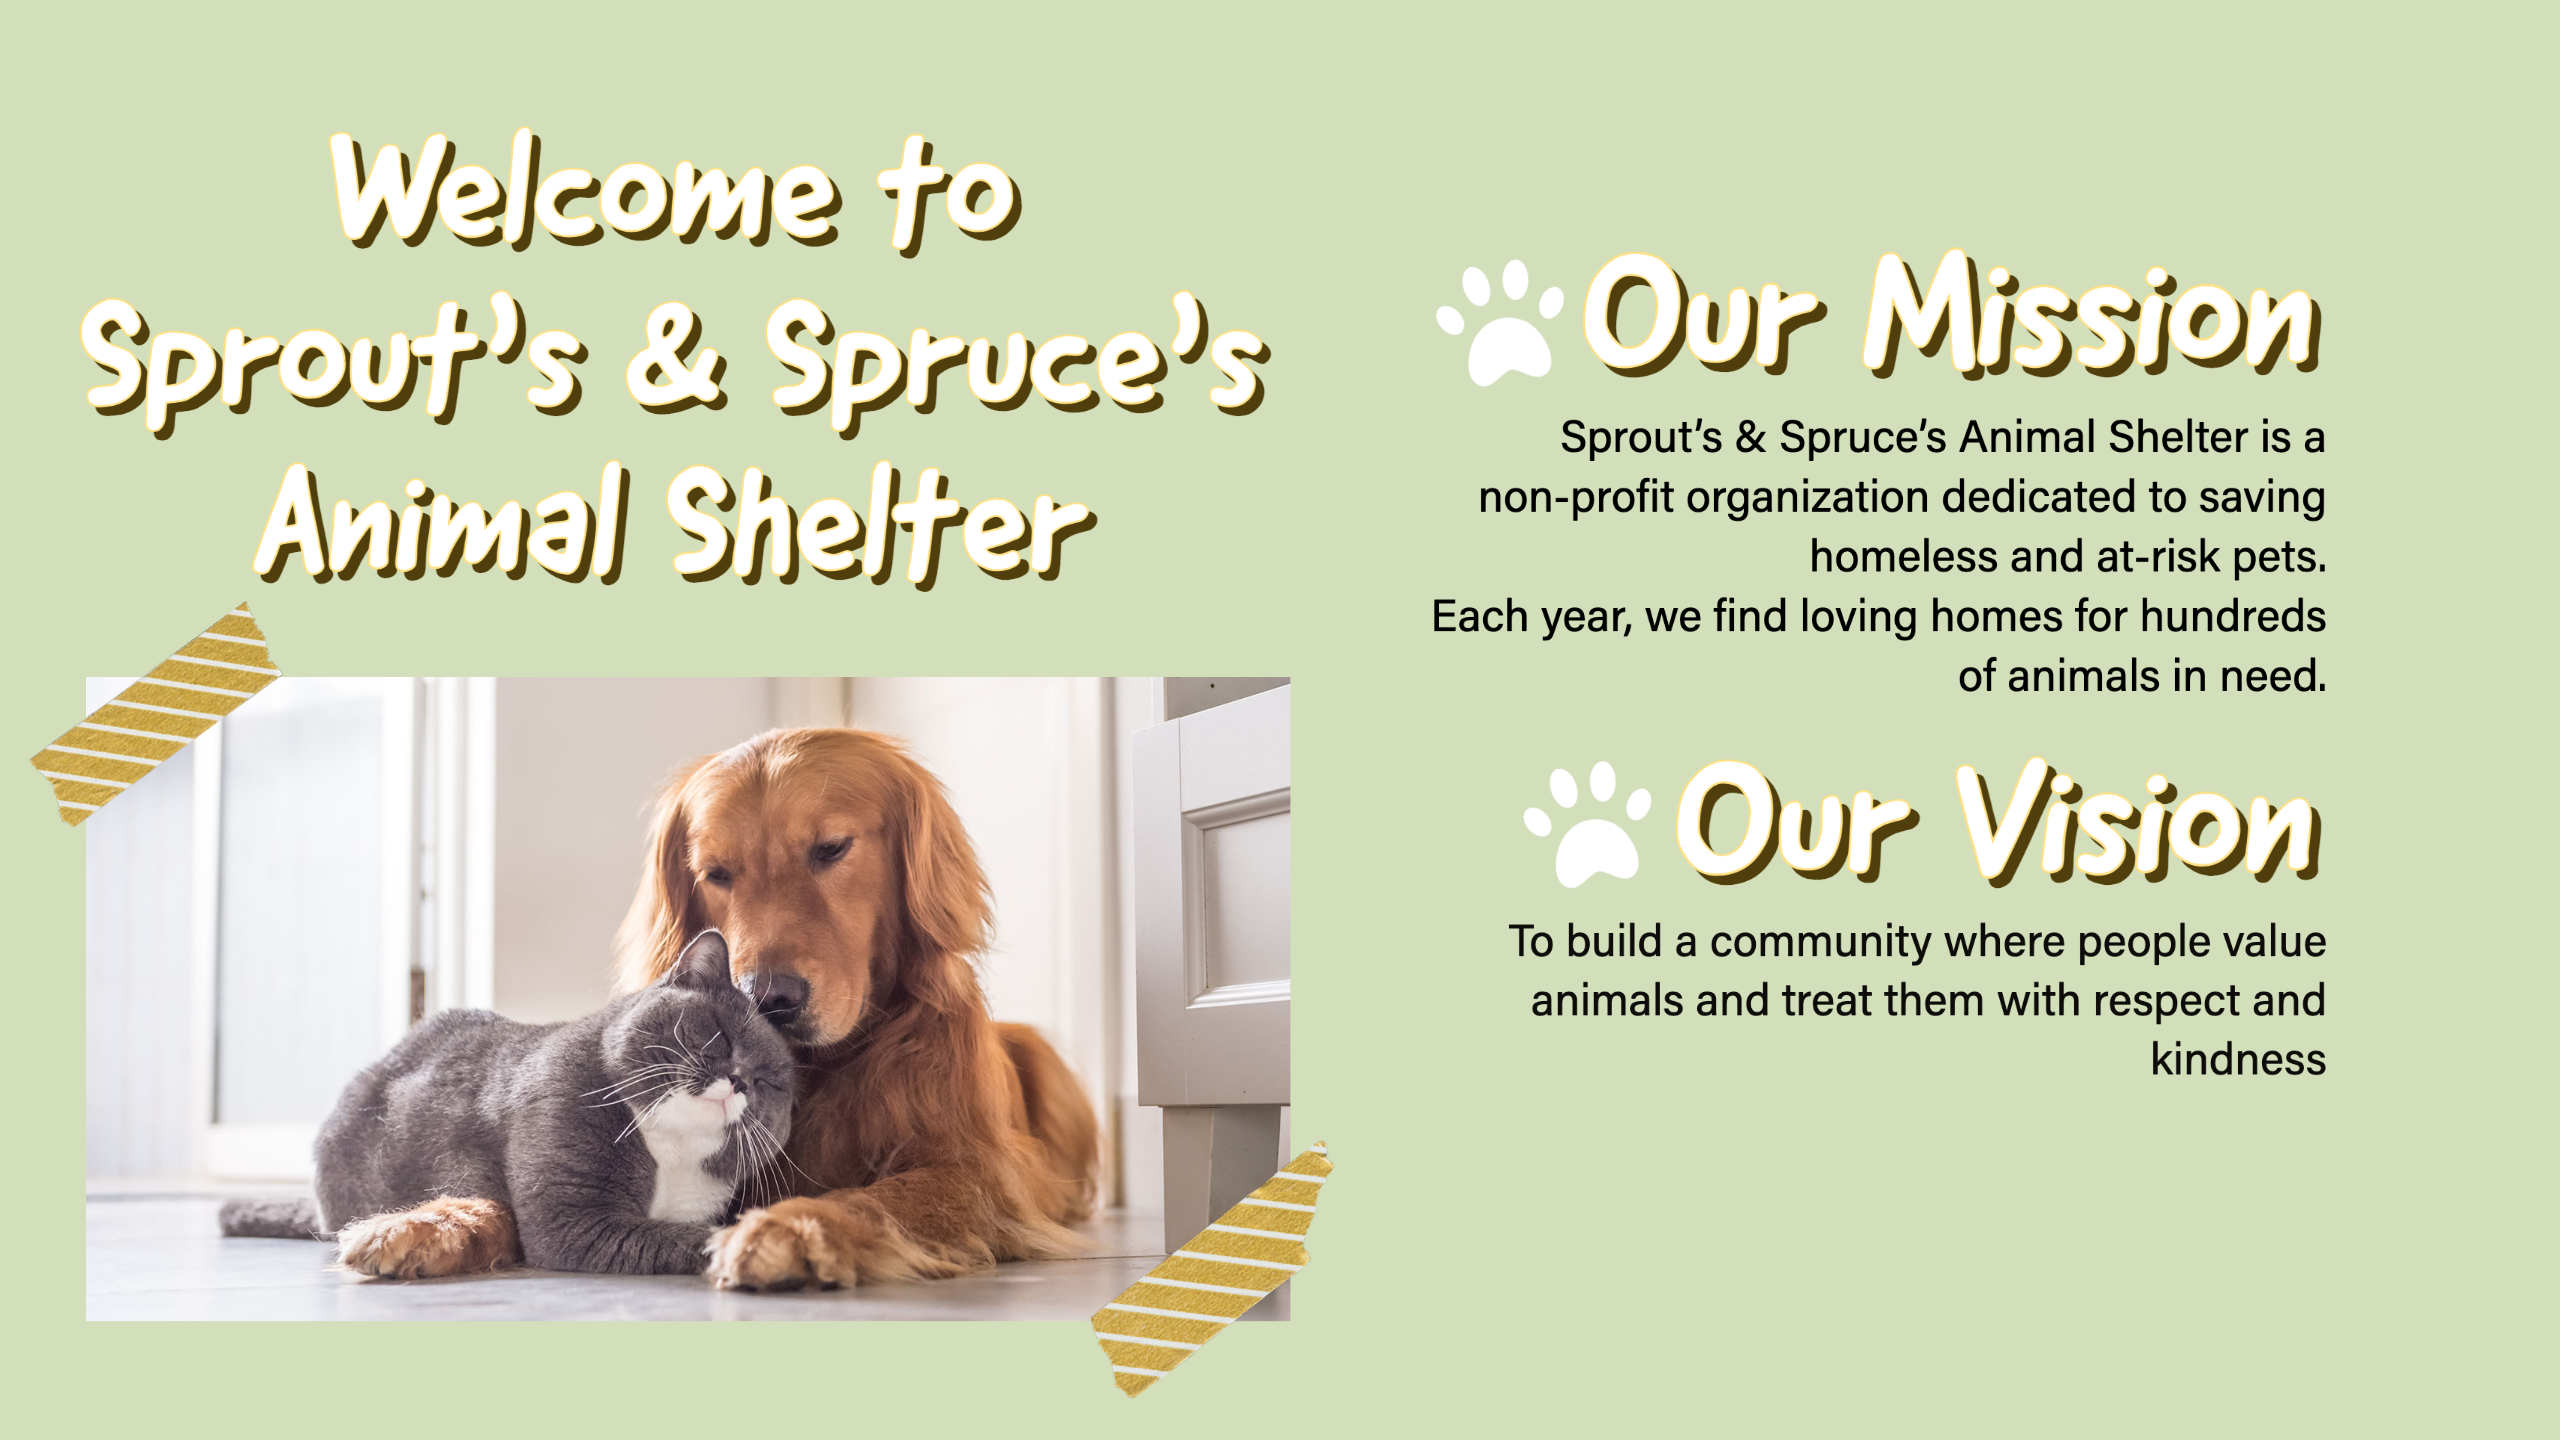
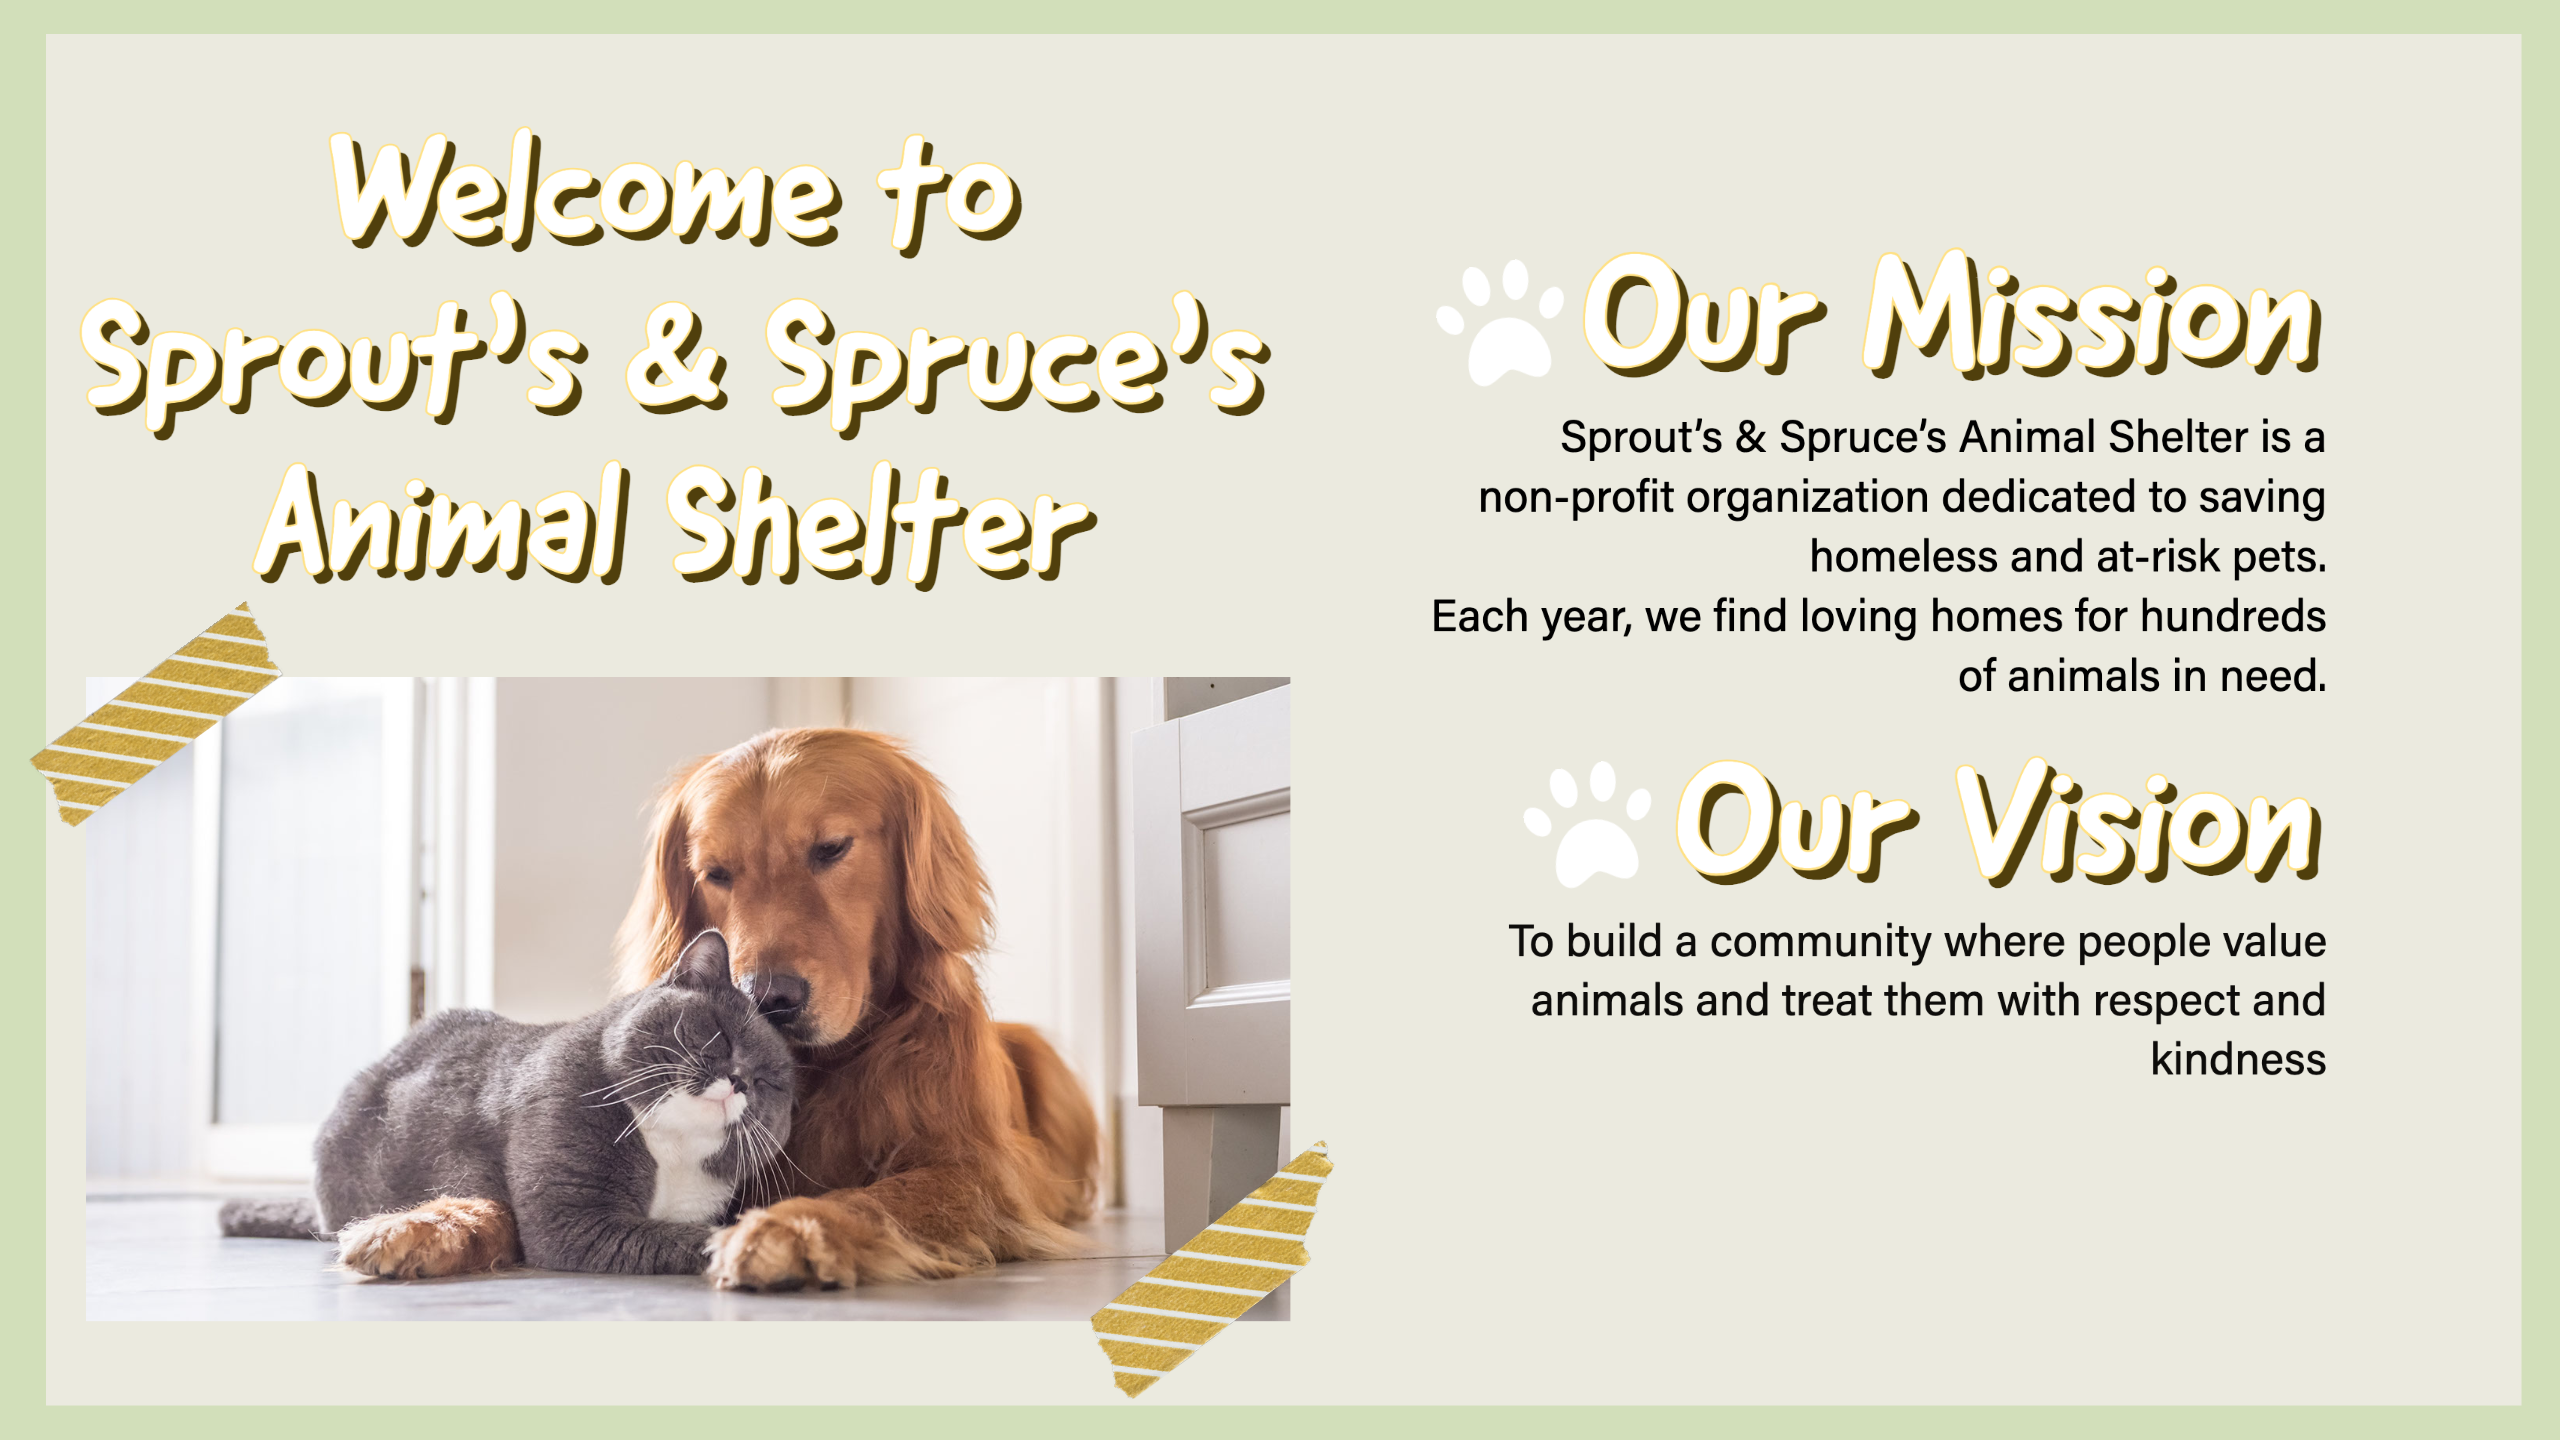
Updated Styling, added Footer

diff --git a/src/App.css b/src/App.css
@@ -22,8 +22,8 @@
   background-image: url('./Images/MissionStatement.png');
   background-size: 1300px; 
   background-repeat: no-repeat;
-  height: 1000px;
-  background-color: #D2DFBA;
+  height: 800px;
+  background-color: #ffffff;
 }
 .welcomePage {
   display: block;
@@ -35,8 +35,23 @@
   background-image: url('./Images/AboutUsBIG.png');
   background-size: 1300px; 
   background-repeat: no-repeat;
-  height: 1000px;
+  height: 800px;
   background-color: #EBE8DD;
+}
+.comments-bg {
+  background-image: url('./Images/AnimalContainerBG.png');
+  background-size: 1500px; 
+  background-repeat: no-repeat;
+  height: 800px;
+  background-color: #EBE8DD;
+
+}
+.animal-container {
+  background-image: url('./Images/AnimalContainerBG.png');
+  background-size: 1500px; 
+  background-repeat: no-repeat;
+  height: 1500px;
+  background-color: #ffffff;
 }
 .card {
   font-family: 'Livvic', sans-serif;
@@ -48,7 +63,7 @@
   background-image: url('./Images/AdoptMeBG.png');
   background-size: 415px;
   background-repeat: no-repeat;
-  background-color: #EBE8DD;
+  background-color: #ffffff;
   padding:1rem;
   width:310px;
   height:420px;
@@ -76,7 +91,7 @@
 .comments-form {
   margin-top: 20px;
   background: #EBEADF;
-  color: #8C5B3E;
+  color: #ffffff;
   width: 900px;
   margin: auto;
   position: relative;
@@ -193,7 +208,7 @@
   background-image: url('./Images/InterestedAdopt.png');
   background-size: 1300px; 
   background-repeat: no-repeat;
-  height: 1000px;
+  height: 900px;
   background-color: #EBE8DD;
   /* background-position: center;
   position: relative; */
@@ -232,14 +247,176 @@
   margin-bottom: 50px;
   padding: 15px;
   border: 2px solid;
+  text-decoration: none;
 }
-/* .footer {
+/* .footer-distributed {
   background-color: #EBE8DD;
   border-top:2px solid #757A7A;
   position: fixed;
-  height: 125px;
+  height: 500px;
   width: 100%;
   bottom: 0;
   color: white;
   font-size: 25px;
 } */
+/* ------------------------ */
+.footer-distributed{
+	background: #EBE8DD;
+	box-shadow: 0 1px 1px 0 rgba(0, 0, 0, 0.12);
+	box-sizing: border-box;
+	width: 100%;
+  height: 260px;
+	text-align: left;
+	font: bold 16px sans-serif;
+	padding: 55px 50px;
+}
+
+.footer-distributed .footer-left,
+.footer-distributed .footer-center,
+.footer-distributed .footer-right{
+	display: inline-block;
+	vertical-align: top;
+}
+
+/* Footer left */
+
+.footer-distributed .footer-left{
+	width: 40%;
+}
+
+/* The company logo */
+
+.footer-distributed h3{
+	color:  #ffffff;
+	font-family: 'Livvic', sans-serif;;
+  font-size: 36px;
+	margin: 0;
+}
+
+.footer-distributed h3 span{
+	color:  #503F0C;
+}
+
+/* Footer links */
+
+.footer-distributed .footer-links{
+	color:  #503F0C;
+	margin: 20px 0 12px;
+	padding: 0;
+}
+
+.footer-distributed .footer-links a{
+	display:inline-block;
+	line-height: 1.8;
+  font-weight:400;
+	text-decoration: none;
+	color:  inherit;
+}
+
+.footer-distributed .footer-company-name{
+	color:  #222;
+	font-size: 14px;
+	font-weight: normal;
+	margin: 0;
+}
+
+/* Footer Center */
+
+.footer-distributed .footer-center{
+	width: 35%;
+}
+
+.footer-distributed .footer-center i{
+	background-color:  #33383b;
+	color: #503F0C;
+	font-size: 25px;
+	width: 38px;
+	height: 38px;
+	border-radius: 50%;
+	text-align: center;
+	line-height: 42px;
+	margin: 10px 15px;
+	vertical-align: middle;
+}
+
+.footer-distributed .footer-center i.fa-envelope{
+	font-size: 17px;
+	line-height: 38px;
+}
+
+.footer-distributed .footer-center p{
+	display: inline-block;
+	color: #503F0C;
+  font-weight:400;
+	vertical-align: middle;
+	margin:0;
+}
+
+.footer-distributed .footer-center p span{
+	display:block;
+	font-weight: normal;
+	font-size:14px;
+	line-height:2;
+}
+
+.footer-distributed .footer-center p a{
+	color:  #503F0C;
+	text-decoration: none;;
+}
+
+.footer-distributed .footer-links a:before {
+  content: "|";
+  font-weight:300;
+  font-size: 20px;
+  left: 0;
+  color: #503F0C;
+  display: inline-block;
+  padding-right: 5px;
+}
+
+.footer-distributed .footer-links .link-1:before {
+  content: none;
+}
+
+/* Footer Right */
+
+.footer-distributed .footer-right{
+	width: 20%;
+}
+
+.footer-distributed .footer-company-about{
+	line-height: 20px;
+	color:  #503F0C;
+	font-size: 13px;
+	font-weight: normal;
+	margin: 0;
+}
+
+.footer-distributed .footer-company-about span{
+	display: block;
+	color:  #503F0C;
+	font-size: 20px;
+	font-weight: bold;
+	margin-bottom: 20px;
+}
+
+.footer-distributed .footer-icons{
+	margin-top: 25px;
+}
+
+.footer-distributed .footer-icons a{
+	display: inline-block;
+	width: 35px;
+	height: 35px;
+	cursor: pointer;
+	background-color:  #33383b;
+	border-radius: 2px;
+
+	font-size: 20px;
+	color: #ffffff;
+	text-align: center;
+	line-height: 35px;
+
+	margin-right: 3px;
+	margin-bottom: 5px;
+}

diff --git a/src/Components/Footer.js b/src/Components/Footer.js
@@ -2,23 +2,48 @@ import React from 'react'
 
 function Footer() {
     return (
-        <footer className='footer'> 
-            {/* <p>Sticky Footer Test</p> */}
-            {/* <div id='social'>
+        <footer className='footer-distributed'> 
+            <div class="footer-left">
 
-                <a className='fa fa-google' rel='noopener noreferrer' href="mailto:sample@gmail.com"></a>
-                <a className='fa fa-instagram' target='_blank' rel='noopener noreferrer' href='https://www.instagram.com/sample/?hl=undefined'></a>
+            <h3>Sprout's & <span>Spruce's Shelter</span></h3>
 
-                </div>
+            <p class="footer-company-name">Sprout's & Spruce's Shelter © 2022</p>
+            </div>
 
-                <div id='elements'>
+            <div class="footer-center">
 
-                <img id='phone' src={phone} />
-                <p>+32 696 69 69 69</p>
+            <div>
+            <i class="fa fa-map-marker"></i>
+            <p><span>4648 Ebert Road</span> Lake Deonville, Idaho</p>
+            </div>
 
-                <img id='email' src={email} /> <p>sample@gmail.com</p>
-                <img id='pin' src={pin} /> <p>Antwerp , Belgium</p>
-            </div> */}
+            <div>
+            <i class="fa fa-phone"></i>
+            <p>480-795-2279</p>
+            </div>
+
+            <div>
+            <i class="fa fa-envelope"></i>
+            <p><a href="mailto:info@sproutandspruce.org">info@sproutandspruce.org</a></p>
+            </div>
+
+            </div>
+
+            <div class="footer-right">
+
+            <p class="footer-company-about">
+            <span>About the shelter</span>
+            It’s our mission to improve and save animal lives by promoting quality care and compassion through adoption and education.
+            </p>
+
+            <div class="footer-icons">
+
+            {/* <a href="#"><i class="fa fa-facebook"></i></a>
+            <a href="#"><i class="fa fa-twitter"></i></a> */}
+
+            </div>
+
+            </div>
         </footer>
     )
 }

diff --git a/src/App.js b/src/App.js
@@ -3,6 +3,7 @@ import React, {useEffect, useState} from 'react';
 import NavBar from './Components/NavBar';
 import Footer from './Components/Footer';
 
+
 function App() {
 
   const [animals, setAnimals] = useState([])
@@ -85,6 +86,7 @@ function App() {
         handleClickEditBtn={handleClickEditBtn}
         handleChangeEditComment={handleChangeEditComment}
         onSubmitEditComment={onSubmitEditComment}
+        
       />
       <Footer />
     </div>

diff --git a/src/Components/Comments.js b/src/Components/Comments.js
@@ -16,7 +16,7 @@ function Comments({handleCommentFormSubmit, commentArray, name, setName, comment
     />)
 
     return (
-        <div>
+        <div className='comments-bg'>
             <form className="comments-form" onSubmit={(e)=>{handleCommentFormSubmit(e)}}>
                 <div className='comment-box-comment'>
                     <h1 className='leave-comment'>Leave a Comment</h1>
